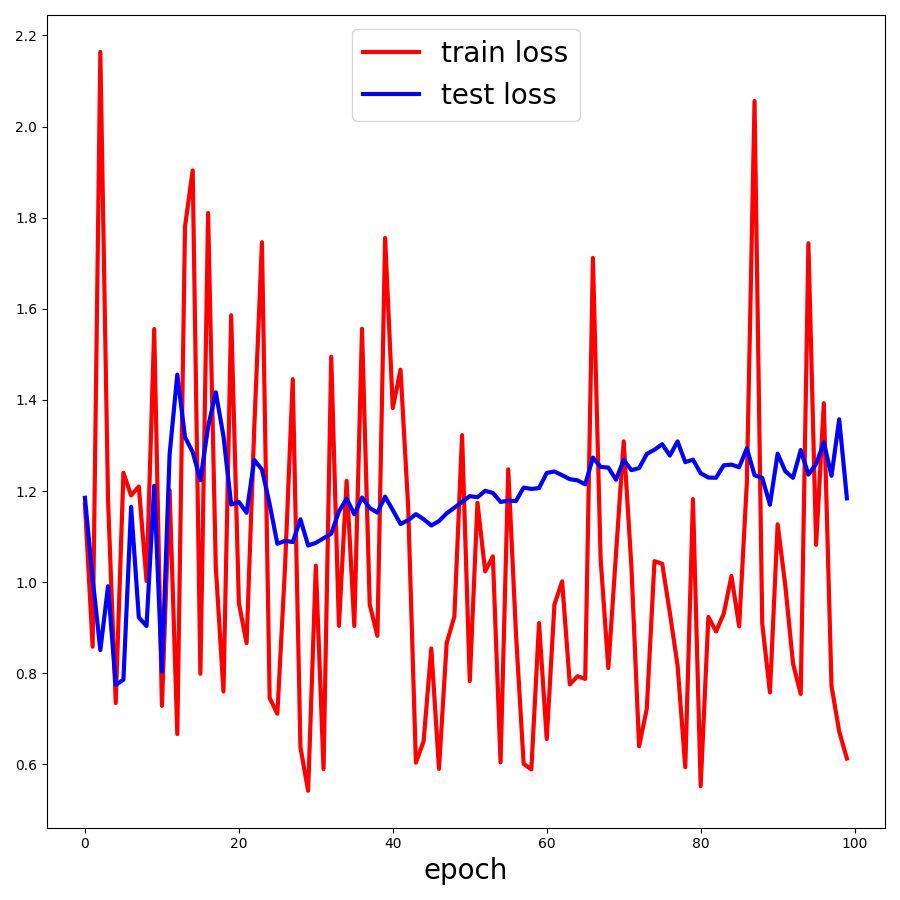
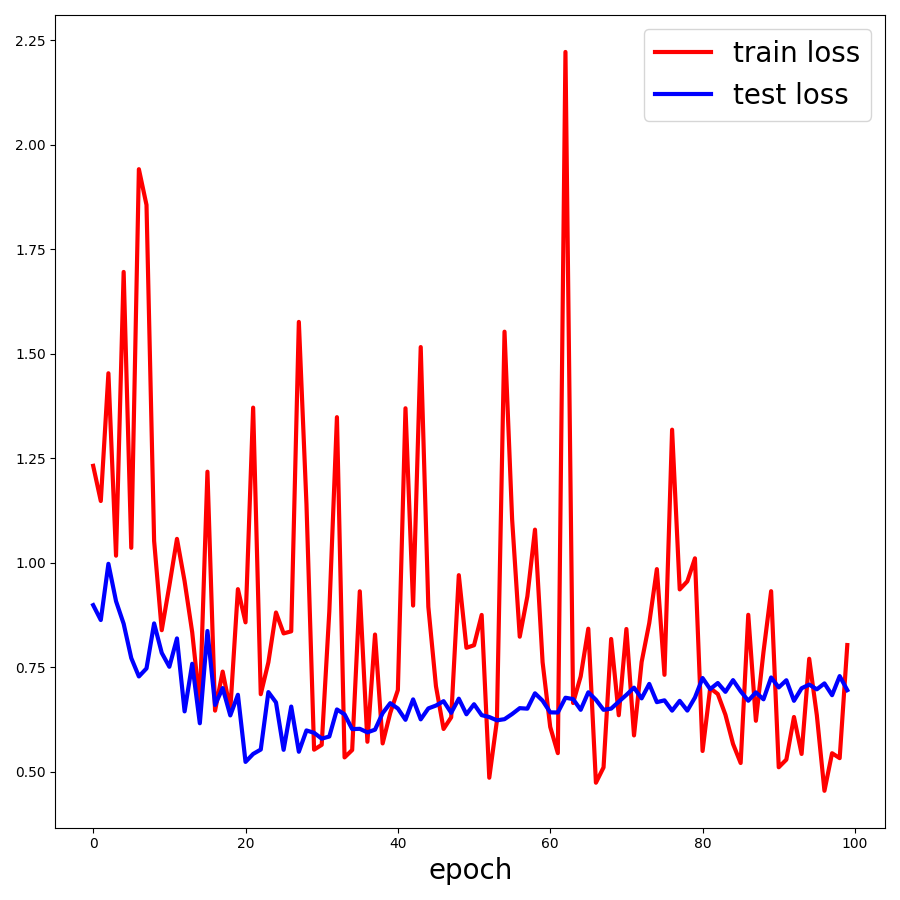
adjusting training parameters and cleaning up the code

diff --git a/train.py b/train.py
@@ -31,7 +31,7 @@ amp: bool = True
 gradient_clipping: float = 1.0
 
 optim_type: str = "rmsprop"
-learning_rate: float = 1e-5
+learning_rate: float = 1e-4
 weight_decay: float = 1e-8
 momentum: float = 0.999
 
@@ -107,15 +107,13 @@ for i in range(epochs):
         with torch.autocast(device.type if device.type != 'mps' else 'cpu', enabled=amp):
             masks_pred = model(images)
             loss = criterion(masks_pred, masks.float())
-            loss += DiceLoss(mode='binary')(torch.sigmoid(masks_pred.squeeze(1)), masks.float())
+            loss += DiceLoss(mode='binary')(torch.sigmoid(masks_pred), masks.float())
 
         optimizer.zero_grad(set_to_none=True)
         grad_scaler.scale(loss).backward()
         torch.nn.utils.clip_grad_norm_(model.parameters(), gradient_clipping)
         grad_scaler.step(optimizer)
         grad_scaler.update()
-        # loss.backward()
-        # optimizer.step()
 
     train_losses.append(loss.detach().cpu().numpy())
     with torch.no_grad():
@@ -124,7 +122,7 @@ for i in range(epochs):
             masks = masks.to(device)
             masks_pred = model(images)
             t_loss = criterion(masks_pred, masks.float())
-            t_loss += DiceLoss(mode='binary')(torch.sigmoid(masks_pred.squeeze(1)), masks.float())
+            t_loss += DiceLoss(mode='binary')(torch.sigmoid(masks_pred), masks.float())
 
         test_losses.append(t_loss.detach().cpu().numpy())
         print(f'Epoch:{i}, train_loss: {loss}, test_loss: {t_loss}')

diff --git a/predict.py b/predict.py
@@ -1,8 +1,6 @@
 from typing import List
 import os
-import pdb
 import tqdm
-from functools import partial
 import pandas as pd
 import matplotlib.pyplot as plt 
 
@@ -10,7 +8,6 @@ from sklearn.model_selection import train_test_split
 import torch 
 
 from segment.helper import show_image
-from segment.nn_models import UNet
 from segment.dataset import CustomDataset
 from segment.inference import inference
 

diff --git a/README.md b/README.md
@@ -1,8 +1,11 @@
-# segment
+# segment_uq
+## Image Segmentation with Uncertainty Quantification
+Following the paper https://pubmed.ncbi.nlm.nih.gov/31729078/ 
 
-# Dev
+## Without Docker
+TBD ...
+
+## With Docker
 Create an account on ``ngc.nvidia.com`` and ``Create an API key`` and on your machine do ``docker login nvcr.io``, use the provided user/password to login to the ngc server.
 
-To build the docker image ``./launch.sh build`` [ONLY the first time!] and to start it do ``./launch.sh dev -d``. Then in VS Code `` Ctrl+Shift+P`` and choose ``Attach to Running Container`` and choose ``pkpd`` from the running containers list.
-
-`process_data.py` -> `data_split.py` -> `generate_interp_nodosing.py` -> `data_parse.py`
+To build the docker image ``./launch.sh build`` [ONLY the first time!] and to start it do ``./launch.sh dev -d``. Then in VS Code `` Ctrl+Shift+P`` and choose ``Attach to Running Container`` and choose ``vision`` from the running containers list.
